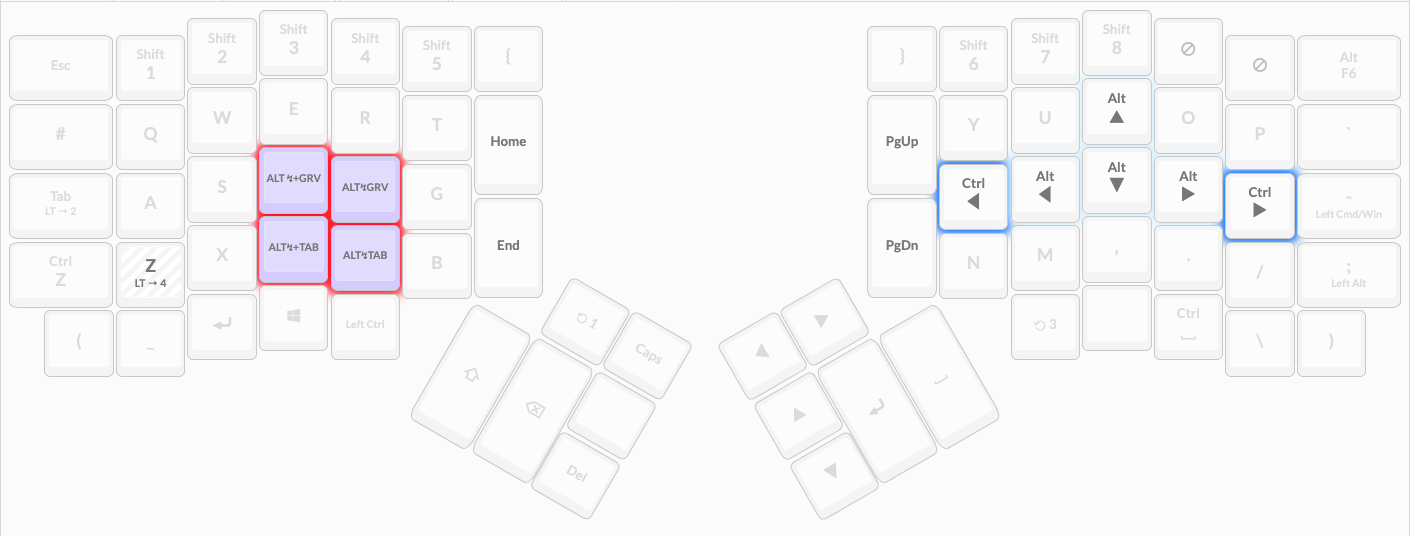
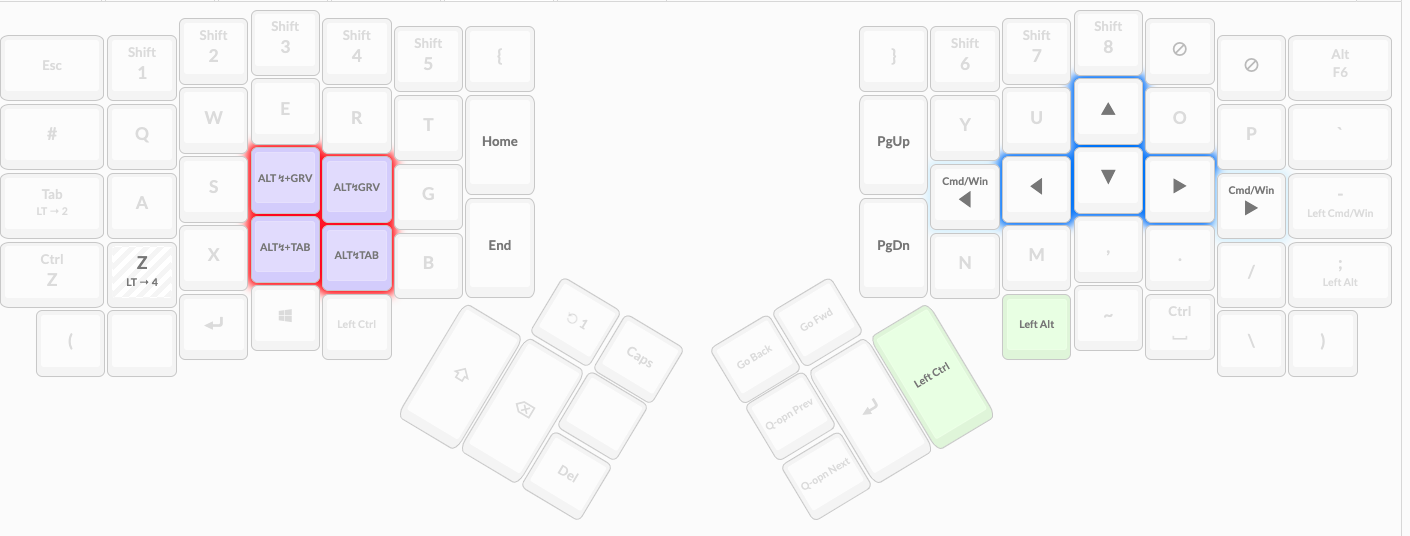
better arrows

diff --git a/keyboards/ergodox_ez/keymaps/stoneman/keymap.c b/keyboards/ergodox_ez/keymaps/stoneman/keymap.c
@@ -88,13 +88,13 @@ const uint16_t PROGMEM keymaps[][MATRIX_ROWS][MATRIX_COLS] = {
   ),
   [4] = LAYOUT_ergodox_pretty(
     KC_TRANSPARENT, KC_TRANSPARENT, KC_TRANSPARENT, KC_TRANSPARENT, KC_TRANSPARENT, KC_TRANSPARENT, KC_TRANSPARENT,                                 KC_TRANSPARENT, KC_TRANSPARENT, KC_TRANSPARENT, KC_TRANSPARENT, KC_TRANSPARENT, KC_TRANSPARENT, KC_TRANSPARENT,
-    KC_TRANSPARENT, KC_TRANSPARENT, KC_TRANSPARENT, KC_TRANSPARENT, KC_TRANSPARENT, KC_TRANSPARENT, KC_HOME,                                        KC_PGUP,        KC_TRANSPARENT, KC_TRANSPARENT, LALT(KC_UP),    KC_TRANSPARENT, KC_TRANSPARENT, KC_TRANSPARENT,
-    KC_TRANSPARENT, KC_TRANSPARENT, KC_TRANSPARENT, ALT_SHIFT_GRV,  ALT_GRV,        KC_TRANSPARENT,                                                                 KC_CTL_LEFT,    KC_ALT_LEFT,    LALT(KC_DOWN),  KC_ALT_RIGHT,   KC_CTL_RIGHT,   KC_TRANSPARENT,
+    KC_TRANSPARENT, KC_TRANSPARENT, KC_TRANSPARENT, KC_TRANSPARENT, KC_TRANSPARENT, KC_TRANSPARENT, KC_HOME,                                        KC_PGUP,        KC_TRANSPARENT, KC_TRANSPARENT, KC_UP,          KC_TRANSPARENT, KC_TRANSPARENT, KC_TRANSPARENT,
+    KC_TRANSPARENT, KC_TRANSPARENT, KC_TRANSPARENT, ALT_SHIFT_GRV,  ALT_GRV,        KC_TRANSPARENT,                                                                 LGUI(KC_LEFT),  KC_LEFT,        KC_DOWN,        KC_RIGHT,       LGUI(KC_RIGHT), KC_TRANSPARENT,
     KC_TRANSPARENT, KC_TRANSPARENT, MACRO_CHZ,      ALT_SHIFT_TAB,  ALT_TAB,        KC_TRANSPARENT, KC_END,                                         KC_PGDOWN,      KC_TRANSPARENT, KC_TRANSPARENT, KC_TRANSPARENT, KC_TRANSPARENT, KC_TRANSPARENT, KC_TRANSPARENT,
-    KC_TRANSPARENT, KC_TRANSPARENT, KC_TRANSPARENT, KC_TRANSPARENT, KC_TRANSPARENT,                                                                                                 KC_TRANSPARENT, KC_TRANSPARENT, KC_TRANSPARENT, KC_TRANSPARENT, KC_TRANSPARENT,
+    KC_TRANSPARENT, KC_TRANSPARENT, KC_TRANSPARENT, KC_TRANSPARENT, KC_TRANSPARENT,                                                                                                 KC_LALT,        KC_TRANSPARENT, KC_TRANSPARENT, KC_TRANSPARENT, KC_TRANSPARENT,
                                                                                                     KC_TRANSPARENT, KC_TRANSPARENT, KC_TRANSPARENT, KC_TRANSPARENT,
                                                                                                                     KC_TRANSPARENT, KC_TRANSPARENT,
-                                                                                    KC_TRANSPARENT, KC_TRANSPARENT, KC_TRANSPARENT, KC_TRANSPARENT, KC_TRANSPARENT, KC_TRANSPARENT
+                                                                                    KC_TRANSPARENT, KC_TRANSPARENT, KC_TRANSPARENT, KC_TRANSPARENT, KC_TRANSPARENT, KC_LCTL
   ),
   [5] = LAYOUT_ergodox_pretty(
     KC_TRANSPARENT, KC_1,           KC_2,           KC_3,           KC_4,           KC_5,           KC_F7,                                          KC_TRANSPARENT, KC_6,           KC_7,           KC_8,           KC_9,           KC_0,           KC_TRANSPARENT,
@@ -125,7 +125,7 @@ const uint8_t PROGMEM ledmap[][DRIVER_LED_TOTAL][3] = {
 
     [3] = { {0,0,255}, {0,0,255}, {0,0,255}, {0,0,255}, {0,0,255}, {0,0,0}, {0,0,255}, {0,0,255}, {0,0,255}, {154,255,255}, {0,0,0}, {0,0,255}, {0,0,255}, {0,0,255}, {154,255,255}, {0,0,0}, {0,0,255}, {0,0,0}, {0,255,255}, {154,255,255}, {0,0,0}, {0,0,0}, {0,0,0}, {0,0,0}, {0,0,255}, {0,0,255}, {0,0,255}, {0,0,255}, {0,0,255}, {0,0,0}, {0,0,0}, {154,255,255}, {0,0,0}, {0,0,0}, {0,0,0}, {154,255,255}, {154,255,255}, {154,255,255}, {0,0,0}, {0,0,0}, {0,0,0}, {0,0,0}, {0,0,0}, {0,0,0}, {0,0,0}, {0,0,0}, {0,0,0}, {0,0,0} },
 
-    [4] = { {0,0,0}, {0,0,0}, {0,0,0}, {0,0,0}, {0,0,0}, {0,0,0}, {0,0,0}, {0,0,255}, {0,0,0}, {0,0,0}, {154,255,255}, {0,0,255}, {0,0,255}, {0,0,255}, {154,255,255}, {0,0,0}, {0,0,0}, {0,0,0}, {0,0,0}, {0,0,0}, {0,0,0}, {0,0,0}, {0,0,0}, {0,0,0}, {0,0,0}, {0,0,0}, {0,0,0}, {0,0,0}, {0,0,0}, {0,0,0}, {0,0,0}, {0,0,0}, {0,0,0}, {0,0,0}, {0,0,0}, {0,255,255}, {0,255,255}, {0,0,0}, {0,0,0}, {0,0,0}, {0,255,255}, {0,255,255}, {0,0,0}, {0,0,0}, {0,0,0}, {0,0,0}, {0,0,0}, {0,0,0} },
+    [4] = { {0,0,0}, {0,0,0}, {0,0,0}, {0,0,0}, {0,0,0}, {0,0,0}, {0,0,0}, {154,255,255}, {0,0,0}, {0,0,0}, {0,0,255}, {154,255,255}, {154,255,255}, {154,255,255}, {0,0,255}, {0,0,0}, {0,0,0}, {0,0,0}, {0,0,0}, {0,0,0}, {0,0,0}, {0,0,0}, {0,0,0}, {0,0,0}, {0,0,0}, {0,0,0}, {0,0,0}, {0,0,0}, {0,0,0}, {0,0,0}, {0,0,0}, {0,0,0}, {0,0,0}, {0,0,0}, {0,0,0}, {0,255,255}, {0,255,255}, {0,0,0}, {0,0,0}, {0,0,0}, {0,255,255}, {0,255,255}, {0,0,0}, {0,0,0}, {0,0,0}, {0,0,0}, {0,0,0}, {0,0,0} },
 
     [5] = { {0,255,255}, {0,255,255}, {0,255,255}, {0,255,255}, {0,255,255}, {0,255,255}, {10,255,255}, {10,255,255}, {10,255,255}, {0,255,255}, {0,255,255}, {10,255,255}, {35,255,255}, {10,255,255}, {0,255,255}, {0,255,255}, {10,255,255}, {10,255,255}, {10,255,255}, {0,255,255}, {0,255,255}, {0,255,255}, {0,255,255}, {0,255,255}, {0,255,255}, {0,255,255}, {0,255,255}, {0,255,255}, {0,255,255}, {0,255,255}, {10,255,255}, {10,255,255}, {10,255,255}, {0,255,255}, {0,255,255}, {10,255,255}, {35,255,255}, {10,255,255}, {0,255,255}, {0,255,255}, {10,255,255}, {10,255,255}, {10,255,255}, {0,255,255}, {0,255,255}, {0,255,255}, {0,255,255}, {0,255,255} },
 
